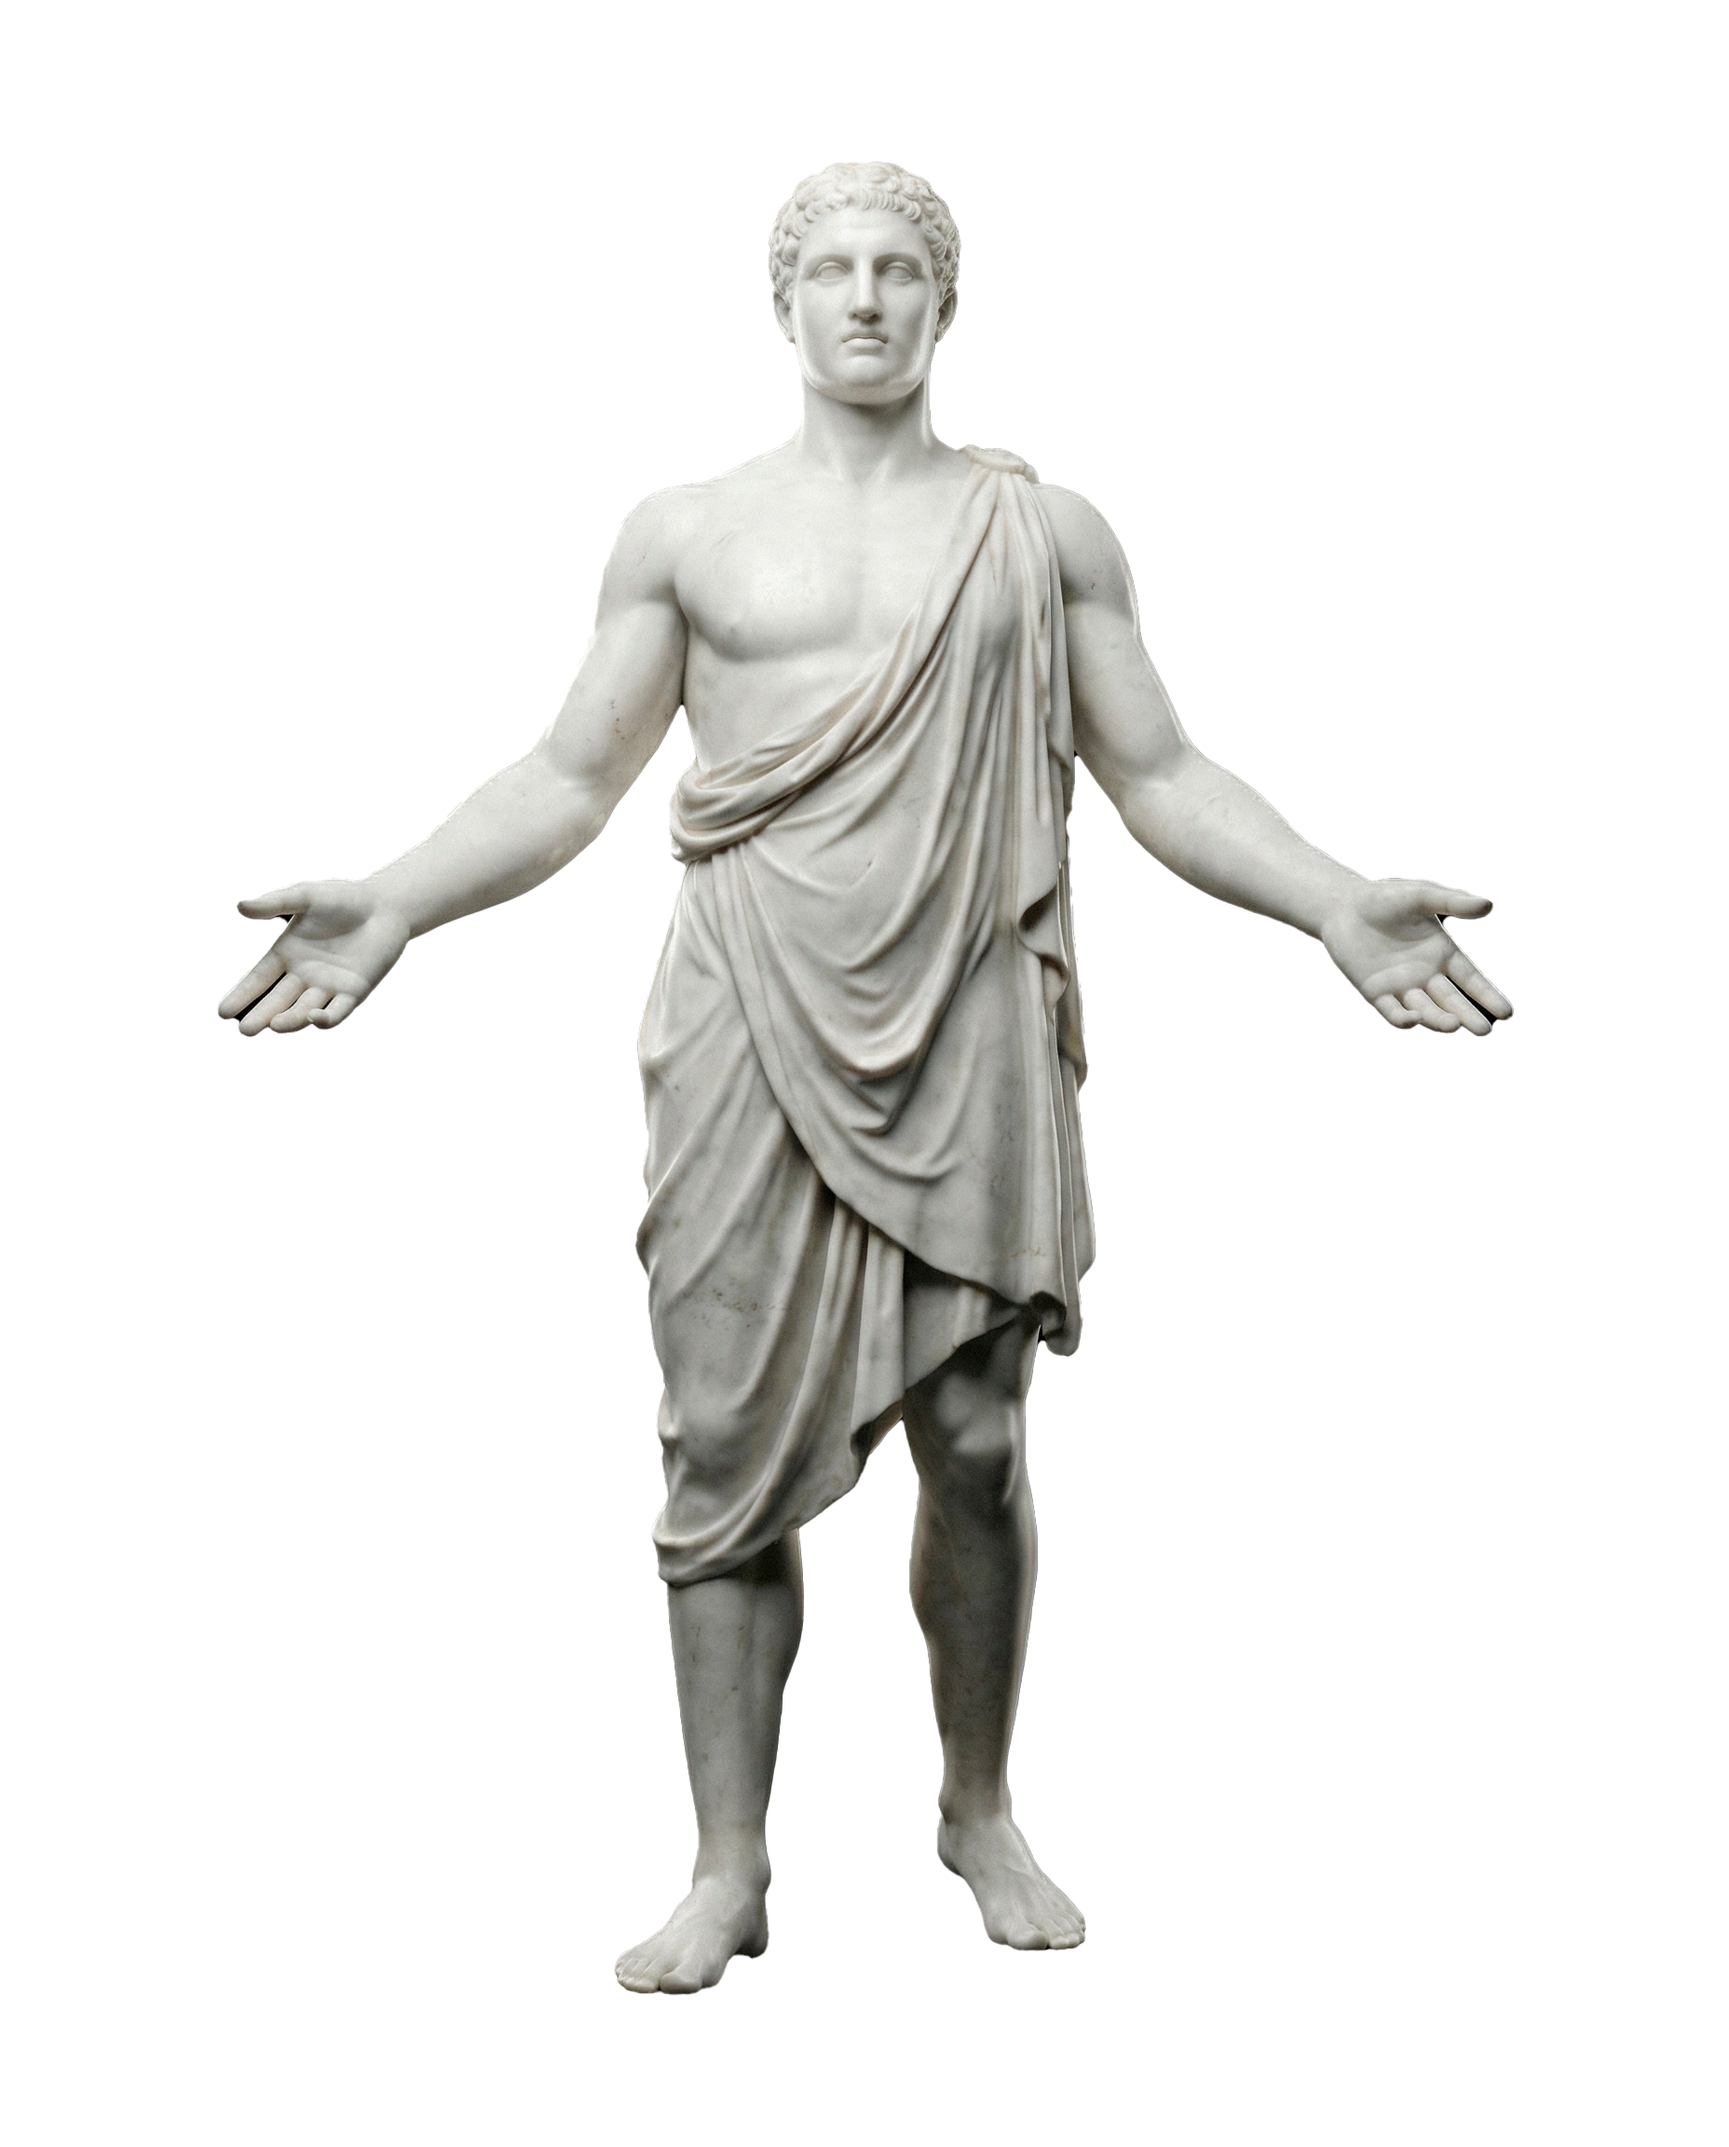
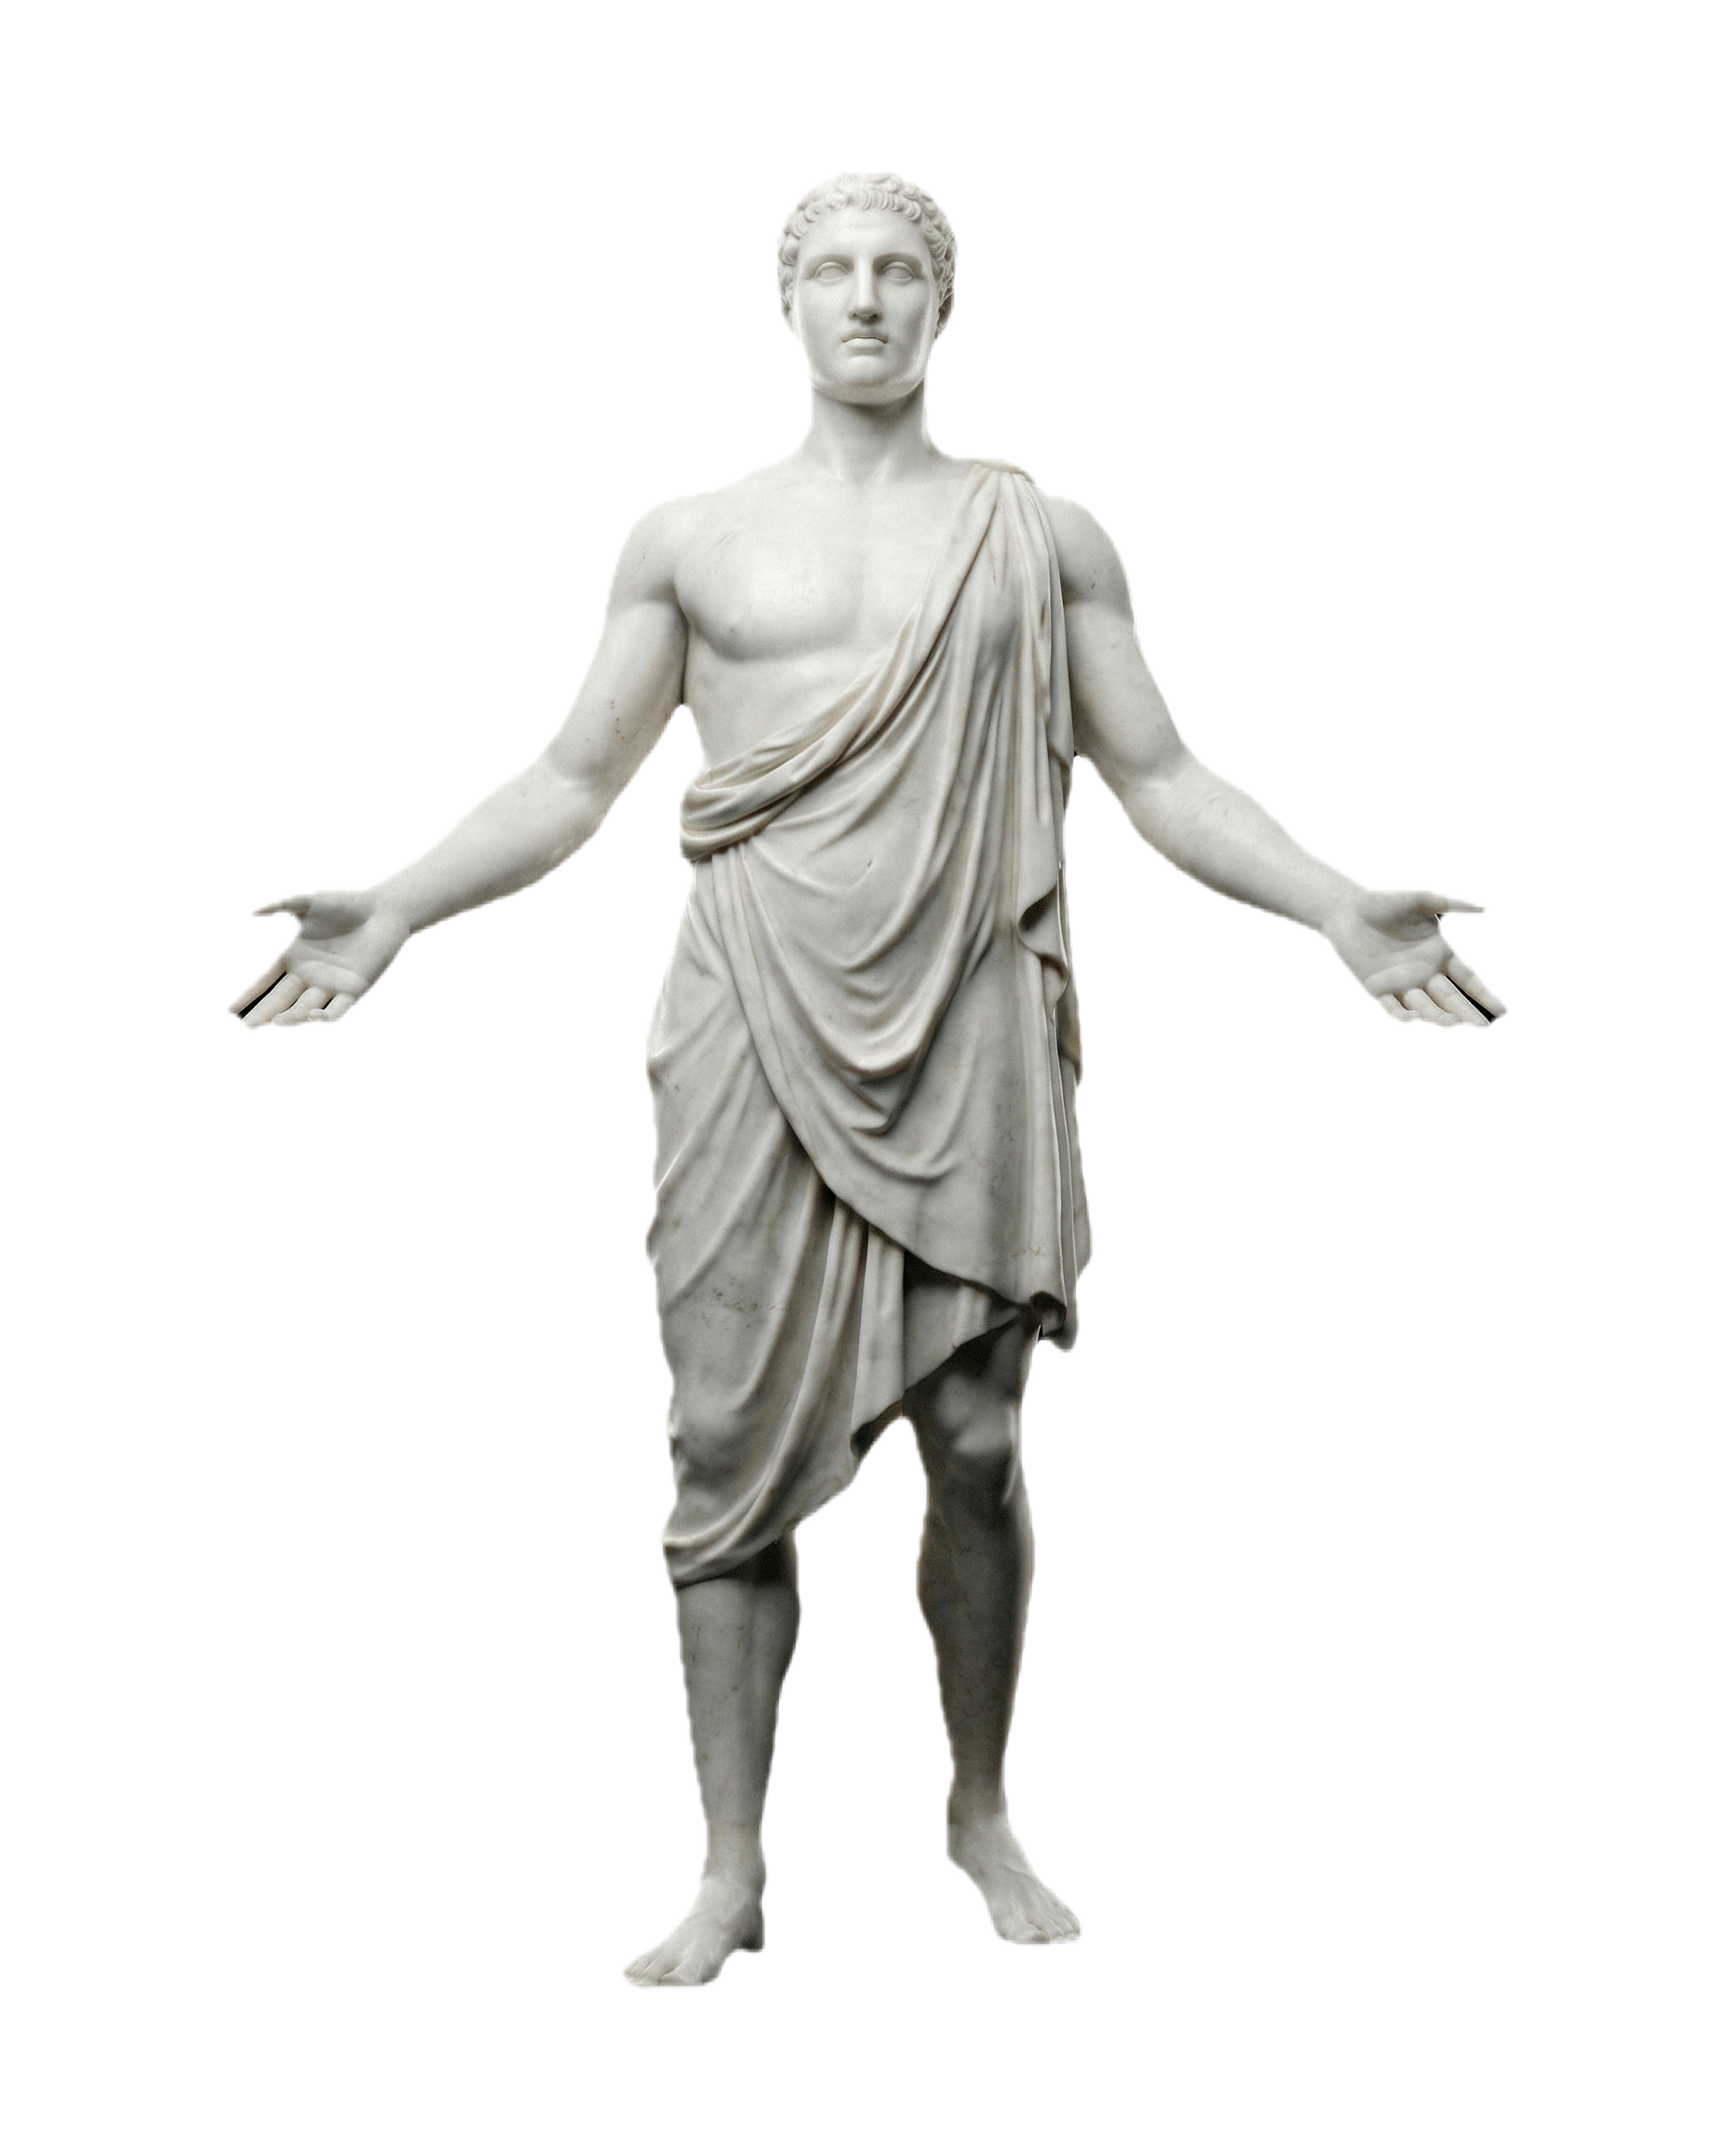
fix: simplificar rendering estatuas + unoptimized para forzar reload + viñetas más suaves

diff --git a/app/components/AvatarComparison.tsx b/app/components/AvatarComparison.tsx
@@ -151,15 +151,12 @@ export default function AvatarComparison() {
                     alt="Antes"
                     width={1856}
                     height={2304}
-                    className="w-full h-full object-contain grayscale"
-                    style={{
-                      filter: 'brightness(0.4) contrast(1.1) drop-shadow(0 20px 40px rgba(0, 0, 0, 0.6))'
-                    }}
-                    priority
+                    className="w-full h-full object-contain grayscale opacity-40"
+                    unoptimized
                   />
                   {/* Dark vignette overlay */}
-                  <div className="absolute inset-0 bg-gradient-to-b from-black/70 via-black/20 to-black/90 pointer-events-none" />
-                  <div className="absolute inset-0 bg-gradient-to-r from-black/70 via-black/10 to-black/70 pointer-events-none" />
+                  <div className="absolute inset-0 bg-gradient-to-b from-black/60 via-transparent to-black/80 pointer-events-none" />
+                  <div className="absolute inset-0 bg-gradient-to-r from-black/60 via-transparent to-black/60 pointer-events-none" />
                 </div>
 
                 {/* Title */}
@@ -236,22 +233,19 @@ export default function AvatarComparison() {
 
                 {/* Avatar - Full size with vignette, scaled larger and positioned bottom */}
                 <div className="absolute inset-0 -z-10 overflow-hidden flex items-end justify-center">
-                  <div style={{ transform: 'scale(1.3) translateY(5%)', width: '100%', height: '100%', display: 'flex', alignItems: 'flex-end', justifyContent: 'center' }}>
+                  <div style={{ transform: 'scale(1.4) translateY(10%)', width: '100%', height: '100%', display: 'flex', alignItems: 'flex-end', justifyContent: 'center' }}>
                     <Image
                       src="/avatars/chad.png"
                       alt="Después"
                       width={1856}
                       height={2304}
-                      className="w-full h-full object-contain"
-                      style={{
-                        filter: 'brightness(0.5) contrast(1.15) drop-shadow(0 30px 60px rgba(0, 0, 0, 0.7))'
-                      }}
-                      priority
+                      className="w-full h-full object-contain opacity-35"
+                      unoptimized
                     />
                   </div>
                   {/* Dark vignette overlay */}
-                  <div className="absolute inset-0 bg-gradient-to-b from-black/70 via-black/20 to-black/90 pointer-events-none" />
-                  <div className="absolute inset-0 bg-gradient-to-r from-black/70 via-black/10 to-black/70 pointer-events-none" />
+                  <div className="absolute inset-0 bg-gradient-to-b from-black/60 via-transparent to-black/80 pointer-events-none" />
+                  <div className="absolute inset-0 bg-gradient-to-r from-black/60 via-transparent to-black/60 pointer-events-none" />
                 </div>
 
                 {/* Title */}
